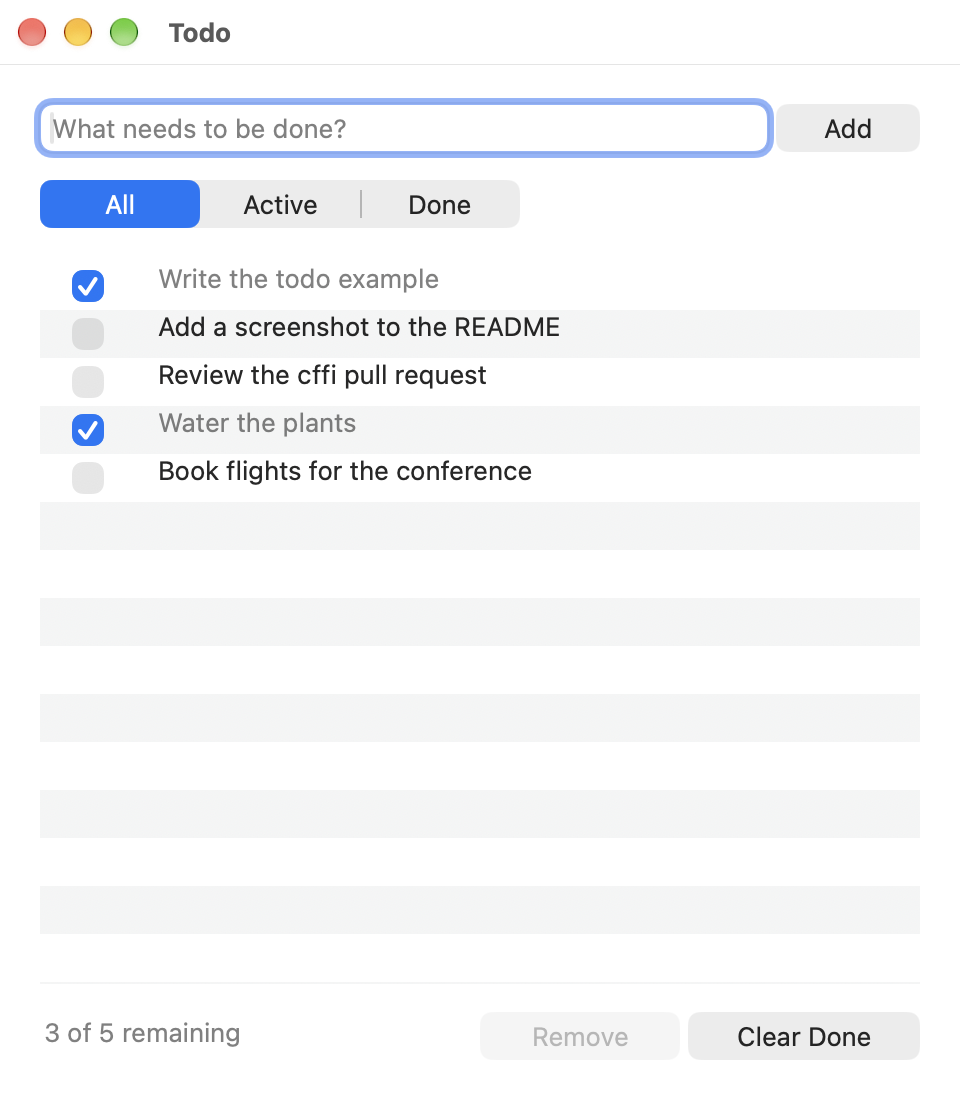
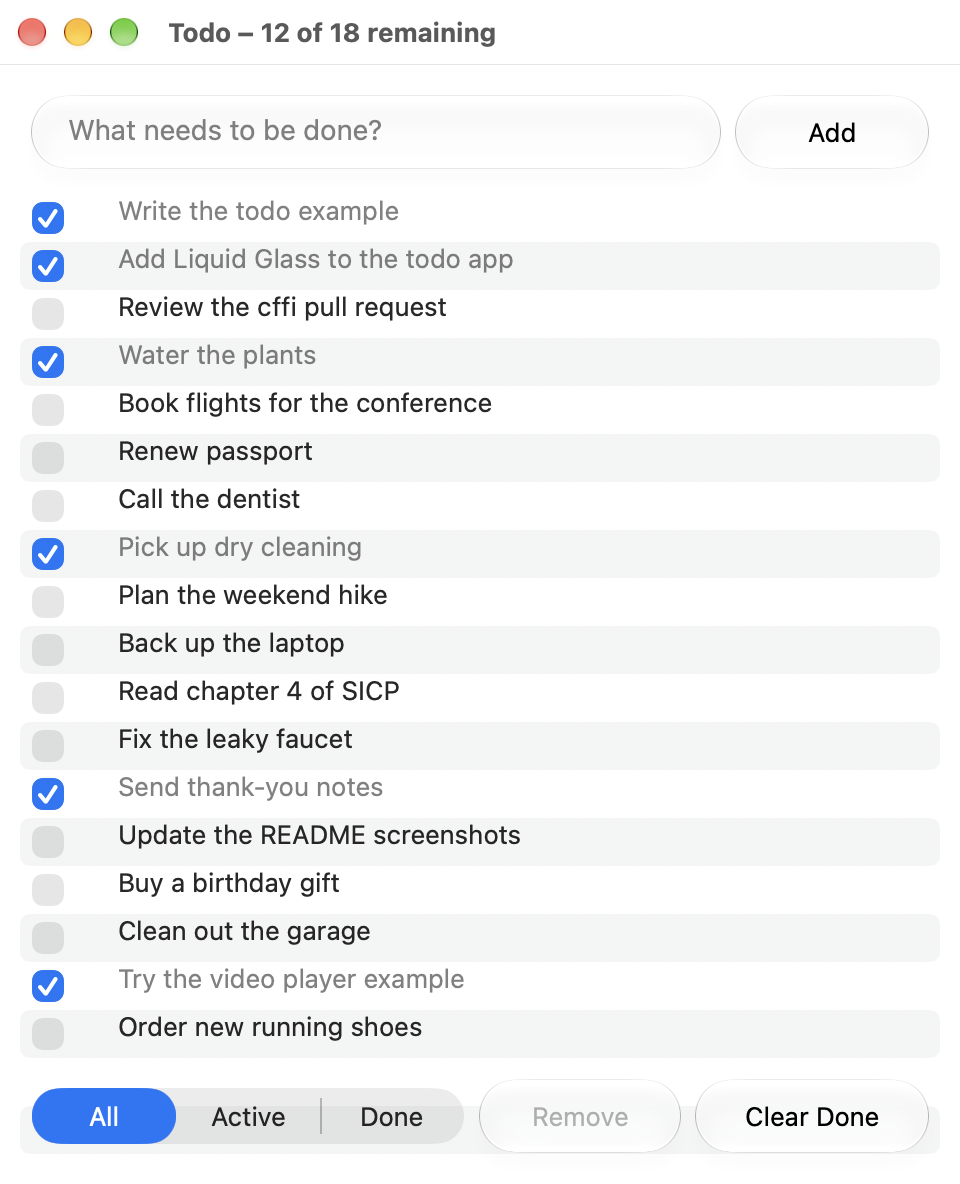
Float the todo app's controls on Liquid Glass
The list now fills the window and scrolls under floating controls: the
new-item field in an NSGlassEffectView capsule with a glass Add button
at the top, and the filter with glass Remove and Clear Done buttons at
the bottom. The remaining count moves to the window subtitle. Where
NSGlassEffectView doesn't exist, or *todo-glass* is NIL, the capsule
uses an NSVisualEffectView and the buttons the standard style.

The example defines NSEdgeInsets for the scroll view's content insets,
which cl-objc doesn't define. Refresh the screenshot and README.

diff --git a/README.md b/README.md
@@ -40,9 +40,9 @@ A custom `NSView` subclass that renders text curved along a circle, with mouse i
 An `AVPlayerView` streaming an HLS URL, with a key-value-observing `PlayerObserver` class defined in Lisp that shows player status in an overlay. Builds a standalone executable with `make`.
 
 ### Todo
-<img src="doc/screenshots/todo.png" alt="Todo window with a list of items, some checked off, and All, Active and Done filters" width="480">
+<img src="doc/screenshots/todo.png" alt="Todo window with a list of items under floating Liquid Glass controls: a new-item field and Add button at the top, and filters, Remove and Clear Done at the bottom" width="480">
 
-A todo list in an `NSTableView` whose data source and delegate are a Lisp class. Add items from the text field, check them off, double-click to rename, filter by All, Active or Done, and press Delete to remove the selected item. The list is saved to `~/Library/Application Support/cl-objc/todos.lisp`. Run it with `(ql:quickload :cl-objc/examples/todo)` and `(cl-objc-examples:todo-app)`, or build a standalone executable with `make`.
+A todo list in an `NSTableView` whose data source and delegate are a Lisp class. Add items from the text field, check them off, double-click to rename, filter by All, Active or Done, and press Delete to remove the selected item. The list scrolls under floating Liquid Glass controls (`NSGlassEffectView` and glass buttons) on macOS 26 and later, and under a translucent material elsewhere. The list is saved to `~/Library/Application Support/cl-objc/todos.lisp`. Run it with `(ql:quickload :cl-objc/examples/todo)` and `(cl-objc-examples:todo-app)`, or build a standalone executable with `make`.
 
 ---
 
